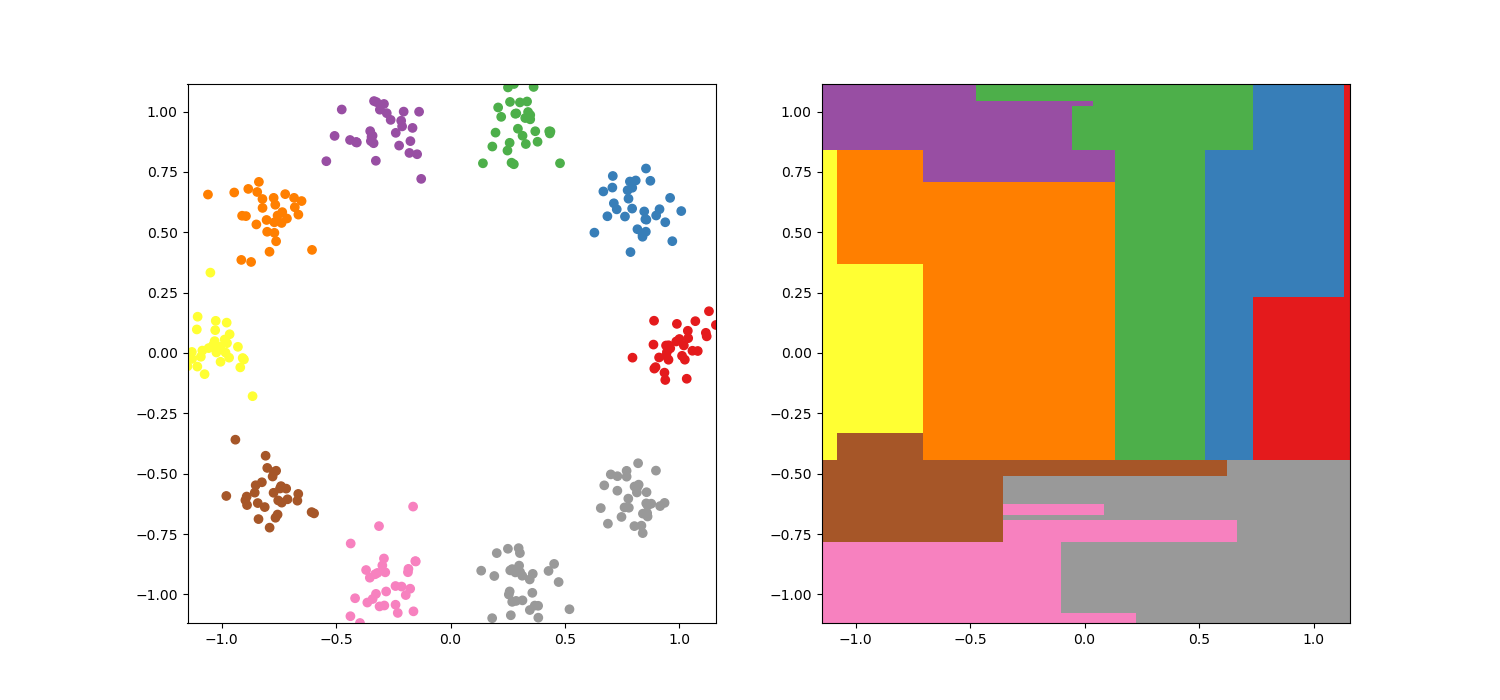
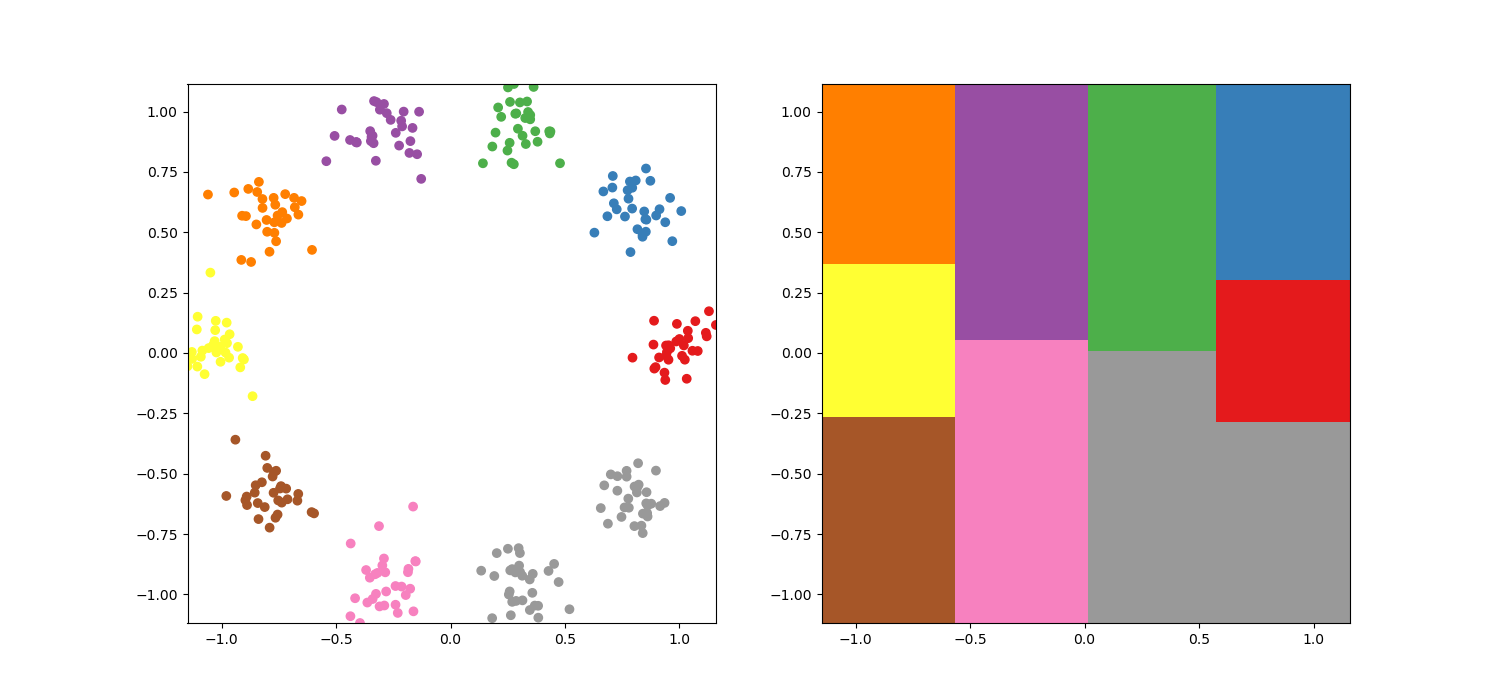
task 8 DT

Changed region(s): [[0.5213, 0.12, 0.92, 0.9]]

diff --git a/supervised_learning/decision_tree/8-build_decision_tree.py b/supervised_learning/decision_tree/8-build_decision_tree.py
@@ -1,0 +1,266 @@
+#!/usr/bin/env python3
+
+import numpy as np
+
+class Node:
+    def __init__(self, feature=None, threshold=None, left_child=None, right_child=None, is_root=False, depth=0):
+        self.feature = feature
+        self.threshold = threshold
+        self.left_child = left_child
+        self.right_child = right_child
+        self.is_leaf = False
+        self.is_root = is_root
+        self.sub_population = None
+        self.depth = depth
+
+    def max_depth_below(self) :
+        if self.is_leaf:
+            return self.depth
+        else:
+            left_depth = self.left_child.max_depth_below()
+            right_depth = self.right_child.max_depth_below()
+            return max(left_depth, right_depth)
+        
+    def count_nodes_below(self, only_leaves=False):
+        count = 0
+        if not only_leaves:
+            count += 1
+        if self.left_child:
+            count += self.left_child.count_nodes_below(only_leaves)
+        if self.right_child:
+            count += self.right_child.count_nodes_below(only_leaves)
+        return count
+    
+    def left_child_add_prefix(self,text):
+        lines=text.split("\n")
+        new_text="    +--"+lines[0]+"\n"
+        for x in lines[1:] :
+            new_text+=("    |  "+x)+"\n"
+
+        return (new_text)
+
+    def right_child_add_prefix(self,text):
+        lines = text.split("\n")
+        new_text = "    +--" + lines[0] + "\n"
+        for x in lines[1:]:
+            new_text += ("       " + x) + "\n"
+
+        return (new_text)
+
+    def __str__(self):
+        if self.is_root :
+            a = self.left_child_add_prefix(f"{self.left_child}"[:-1])
+            b = self.right_child_add_prefix(f"{self.right_child}"[:-1])
+            return f"root [feature={self.feature}, threshold={self.threshold}]\n" \
+                   f"{a}{b}"
+
+
+        else:
+            a=self.left_child_add_prefix(f"{self.left_child}"[:-1])
+            b=self.right_child_add_prefix(f"{self.right_child}"[:-1])
+            return f"-> node [feature={self.feature}, threshold={self.threshold}]\n"\
+                   f"{a}{b}"
+    
+    def get_leaves_below(self) :
+        return self.left_child.get_leaves_below()+self.right_child.get_leaves_below()
+    
+    def update_bounds_below(self) :
+        if self.is_root : 
+            self.upper = { 0:np.inf }
+            self.lower = {0 : -1*np.inf }
+                        
+        for child in [self.left_child, self.right_child] :
+            child.upper = self.upper.copy()
+            child.lower = self.lower.copy()
+        if self.feature in self.left_child.lower.keys() :
+            self.left_child.lower[self.feature]=max(self.threshold,self.left_child.lower[self.feature])
+        else :
+            self.left_child.lower[self.feature]=self.threshold
+        if self.feature in self.right_child.upper.keys() :
+            self.right_child.upper[self.feature]=min(self.threshold,self.right_child.upper[self.feature])
+        else :
+            self.right_child.upper[self.feature]=self.threshold
+                
+        for child in [self.left_child, self.right_child] :
+            child.update_bounds_below()    
+    
+    def update_indicator(self) :
+        is_large_enough = lambda x : np.all(np.array([np.greater(x[:,key],self.lower[key]) for key in list(self.lower.keys())]),axis=0)
+        is_small_enough = lambda x : np.all(np.array([np.less_equal(x[:,key],self.upper[key]) for key in list(self.upper.keys())]),axis=0)
+        self.indicator = lambda x : np.all(np.array([is_large_enough(x),is_small_enough(x)]),axis=0)
+    
+    def pred(self,x) :
+        if x[self.feature]>self.threshold :
+            return self.left_child.pred(x)
+        else :
+            return self.right_child.pred(x)
+        
+class Leaf(Node):
+    def __init__(self, value, depth=None):
+        super().__init__()
+        self.value = value
+        self.is_leaf = True
+        self.depth = depth
+
+    def max_depth_below(self) :
+        return self.depth
+    
+    def count_nodes_below(self, only_leaves=False) :
+        return 1
+    
+    def __str__(self):
+        return (f"-> leaf [value={self.value}] ")
+    
+    def get_leaves_below(self) :
+        return [self]
+    
+    def update_bounds_below(self) :
+        pass    
+    
+    def pred(self,x) :
+        return self.value
+    
+class Decision_Tree():
+    def __init__(self, max_depth=10, min_pop=1, seed=0, split_criterion="random", root=None):
+        self.rng = np.random.default_rng(seed)
+        if root:
+            self.root = root
+        else:
+            self.root = Node(is_root=True)
+        self.explanatory = None
+        self.target = None
+        self.max_depth = max_depth
+        self.min_pop = min_pop
+        self.split_criterion = split_criterion
+        self.predict = None
+
+    def depth(self) :
+        return self.root.max_depth_below()
+    
+    def count_nodes(self, only_leaves=False) :
+        return self.root.count_nodes_below(only_leaves=only_leaves)
+    
+    def __str__(self):
+        return self.root.__str__()
+    
+    def get_leaves(self) :
+        return self.root.get_leaves_below()
+    
+    def update_bounds(self) :
+        self.root.update_bounds_below() 
+
+    def pred(self,x) :
+            return self.root.pred(x)
+    def update_predict(self) :
+        self.update_bounds()
+        leaves=self.get_leaves()
+        for leaf in leaves :
+            leaf.update_indicator()
+        #self.clear_bounds()
+        vals = np.array([leaf.value for leaf in leaves])
+        self.predict = lambda x: np.array(vals[np.argmax(np.array([leaf.indicator(x) for leaf in leaves]),axis=0)])
+
+        
+    def np_extrema(self,arr):
+        return np.min(arr), np.max(arr)
+    
+    def random_split_criterion(self,node) :
+        diff=0
+        while diff==0 :
+            feature=self.rng.integers(0,self.explanatory.shape[1])
+            feature_min,feature_max=self.np_extrema(self.explanatory[:,feature][node.sub_population])
+            diff=feature_max-feature_min
+        x=self.rng.uniform()
+        threshold= (1-x)*feature_min + x*feature_max
+        return feature,threshold
+    
+    def get_leaf_child(self, node, sub_population) :
+        x,y = np.unique(self.target[sub_population],return_counts=True)
+        l= Leaf( x[np.argmax(y)] )
+        l.depth=node.depth+1
+        l.subpopulation=sub_population
+        return l
+
+    def get_node_child(self, node, sub_population) :        
+            n= Node()
+            n.depth=node.depth+1
+            n.sub_population=sub_population
+            return n
+
+    def accuracy(self, test_explanatory , test_target) :
+            return np.sum(np.equal(self.predict(test_explanatory), test_target))/test_target.size
+    def fit_node(self,node) :
+        node.feature, node.threshold = self.split_criterion(node)
+        larger_crit=np.greater(self.explanatory[:,node.feature],node.threshold)
+
+        left_population = np.logical_and(node.sub_population, larger_crit )
+        right_population = np.logical_and(node.sub_population, np.logical_not(larger_crit) )
+
+        # Is left node a leaf ?
+        is_left_leaf = np.any(np.array([node.depth+1 == self.max_depth,
+                                   np.sum(left_population)<=self.min_pop,
+                                   np.unique(self.target[left_population]).size==1]))
+
+        if is_left_leaf :
+            node.left_child = self.get_leaf_child(node,left_population)
+        else :
+            node.left_child = self.get_node_child(node,left_population)
+            self.fit_node(node.left_child)
+
+        # Is right node a leaf ?
+        is_right_leaf = np.any(np.array([node.depth+1 == self.max_depth,
+                                   np.sum(right_population)<=self.min_pop,
+                                   np.unique(self.target[right_population]).size==1]))
+
+        if is_right_leaf :
+            node.right_child = self.get_leaf_child(node,right_population)
+        else :
+            node.right_child = self.get_node_child(node,right_population)
+            self.fit_node(node.right_child)
+
+
+    def fit(self,explanatory, target,verbose=0) :
+        if self.split_criterion == "random" :
+            self.split_criterion = self.random_split_criterion
+        else :
+            self.split_criterion = self.Gini_split_criterion
+        self.explanatory = explanatory
+        self.target      = target
+        self.root.sub_population=np.ones_like(self.target,dtype='bool')
+
+        self.fit_node(self.root)
+        self.update_predict()
+
+        if verbose==1 :
+            print(f"""  Training finished.
+    - Depth                     : { self.depth()       }
+    - Number of nodes           : { self.count_nodes() }
+    - Number of leaves          : { self.count_nodes(only_leaves=True) }
+    - Accuracy on training data : { self.accuracy(self.explanatory,self.target)    }""")  
+            
+    def possible_thresholds(self,node,feature) :
+        values = np.unique((self.explanatory[:,feature])[node.sub_population])
+        return (values[1:]+values[:-1])/2
+
+    def Gini_split_criterion_one_feature(self,node,feature) :
+        thresholds         = self.possible_thresholds(node,feature)
+        indices            = np.arange(0,self.explanatory.shape[0])[node.sub_population]
+        n                  = indices.size
+        feat_vals          = (self.explanatory[:,feature])[node.sub_population]
+        filter_left        = np.greater(feat_vals[:,None],thresholds[None,:])
+        filter_right       = np.logical_not(filter_left)
+        target_reduced     = self.target[indices]
+        classes            = np.unique(self.target)
+        classes_ind        = np.equal(target_reduced[:,None],classes)
+        left_classes       = np.logical_and(classes_ind[:,:,None],filter_left[:,None,:])
+        Gini_left          = 1-np.sum(np.square(np.sum(left_classes,axis=0)),axis=0)/(np.sum(filter_left,axis=0))/n
+        right_classes      = np.logical_and(classes_ind[:,:,None],filter_right[:,None,:])
+        Gini_right         = 1-np.sum(np.square(np.sum(right_classes,axis=0)),axis=0)/(np.sum(filter_right,axis=0))/n
+        Gini_sum           = Gini_left+Gini_right
+        Gini_argmin        = np.argmin(Gini_sum)
+        return np.array([thresholds[Gini_argmin], Gini_sum[Gini_argmin]])
+
+    def Gini_split_criterion(self,node) :
+        X=np.array([self.Gini_split_criterion_one_feature(node,i) for i in range(self.explanatory.shape[1])])
+        i =np.argmin(X[:,1])
+        return i, X[i,0]  
